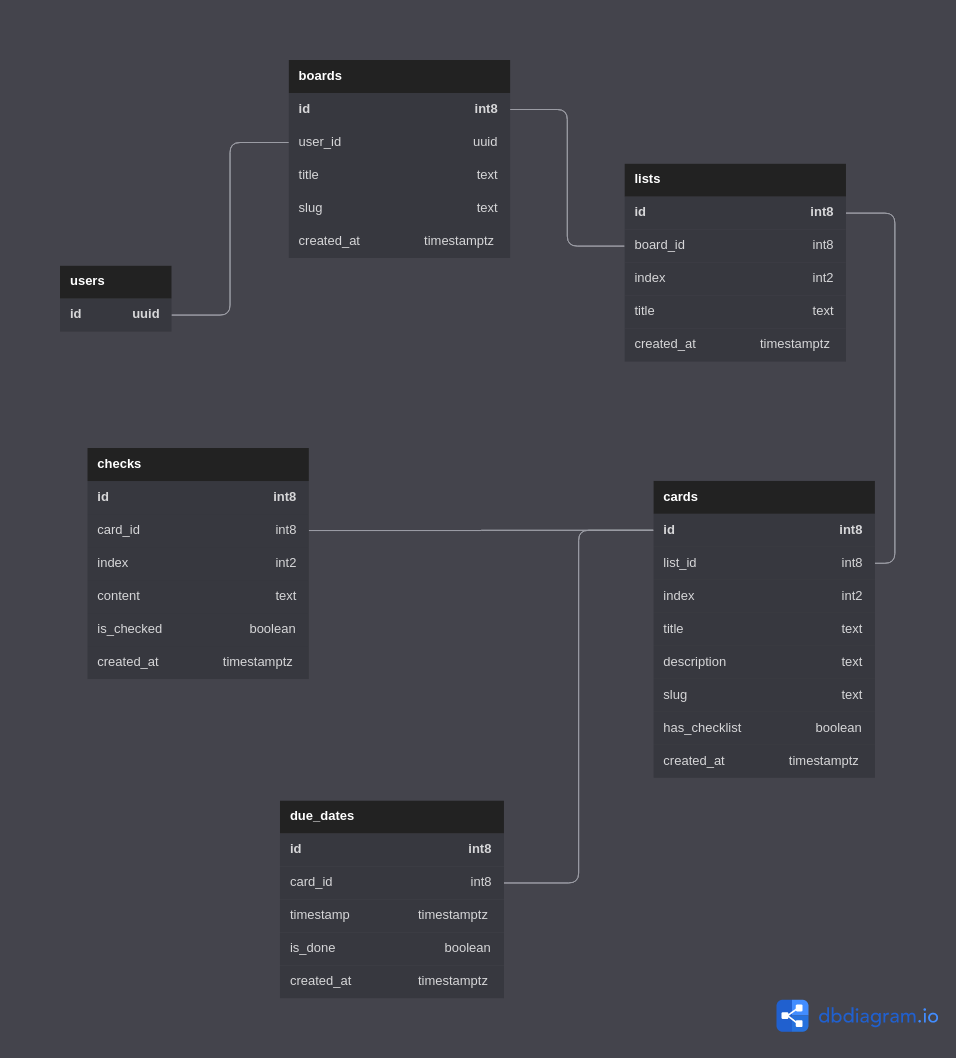
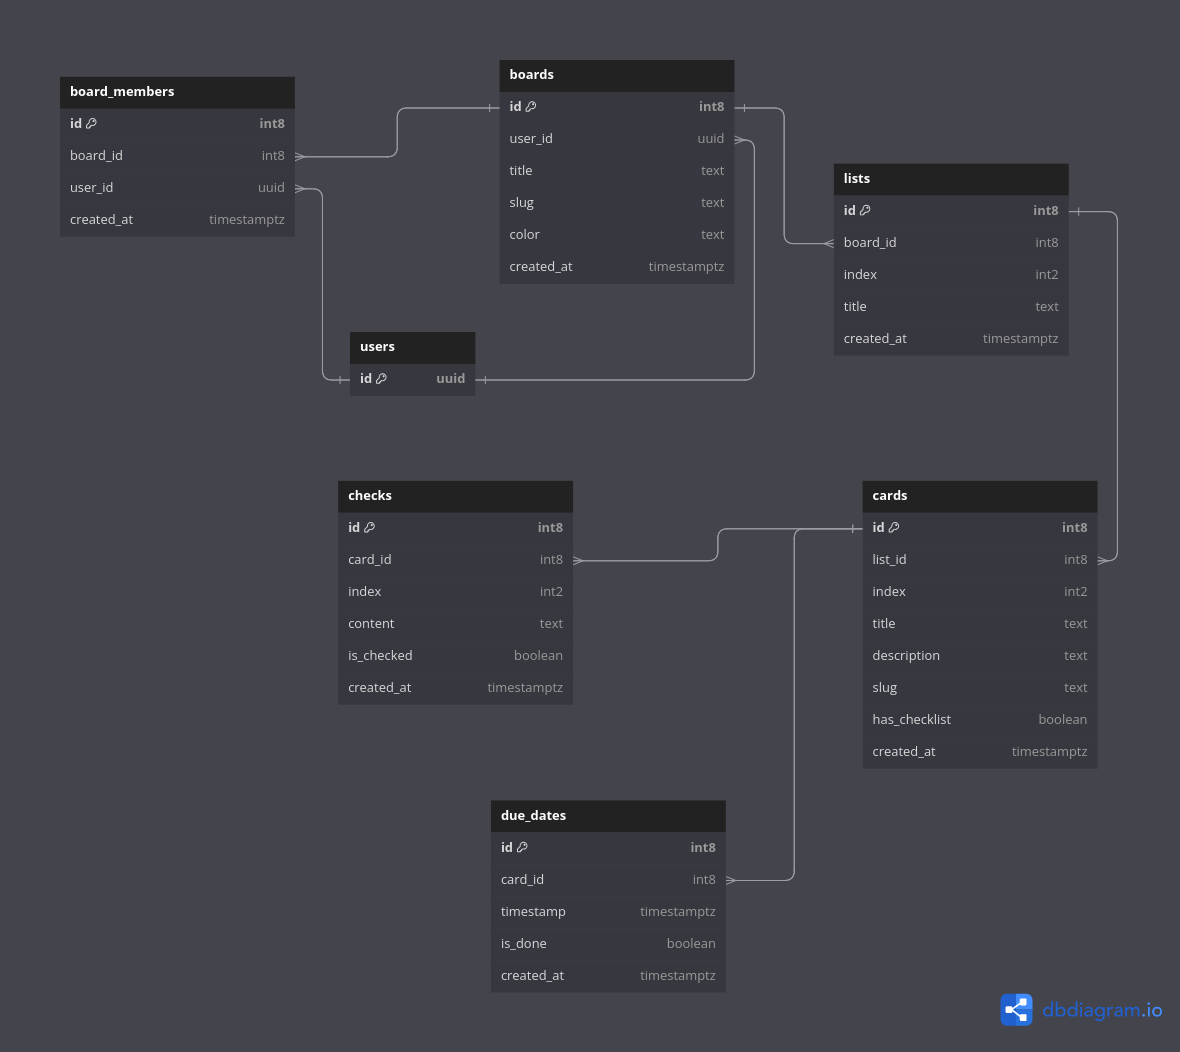
Update README

diff --git a/app/dashboard/boards/[slug]/components/ModalCardDetail.tsx b/app/dashboard/boards/[slug]/components/ModalCardDetail.tsx
@@ -107,9 +107,9 @@ const ModalCardDetail: React.FC<Props> = ({}) => {
       isOpen={isOpen}
       onRequestClose={close}
       overlayClassName="fixed inset-0 bg-black/50 overflow-y-auto"
-      className="border-0 p-0 absolute left-1/2 bottom-auto -translate-x-1/2 bg-transparent w-[95%] md:w-[90%] h-auto max-w-4xl"
+      className="outline-none border-0 p-0 absolute left-1/2 bottom-auto -translate-x-1/2 bg-transparent w-[95%] md:w-[90%] h-auto max-w-4xl"
     >
-      <div className="w-full rounded bg-slate-100 p-4 pb-10 min-h-[480px] my-4 flex flex-col md:my-16">
+      <div className="outline-none w-full rounded bg-slate-100 p-4 pb-10 min-h-[480px] my-4 flex flex-col md:my-16">
         {cardQuery.status === "success" && (
           <>
             {/* Header Side */}

diff --git a/README.md b/README.md
@@ -1,17 +1,31 @@
+![Logo](./docs/images/logo-with-text.svg)
+
 # Shoryuken
 
-![Thumbnail](./docs/images/thumbnail.png)
+Shoryuken is Trello-like web app created with NextJS and TailwindCSS.
 
-Shoryuken is Trello-like web app created with NextJS and TailwindCSS. It has some features like:
+![Board Detail](./docs/images/board-detail.png)
 
-- Authentication parts are like sign up, sign in, sign out, forgot password, and reset password.
+It has some features like:
+- Authentication.
+- Update user profile.
 - Create a board, open board detail, update board title, and delete a board.
-- Create a list, update list title, and delete a list.
-- Create a card, update card title and description, and delete a card.
+- Create a list, update list content, move a list and delete a list.
+- Create a card, update card content, move a card, and delete a card.
+
+![Card Detail](./docs/images/card-detail.png)
+
+## Prerequisites
+
+You need to install these first on your machine:
+- NodeJS v18.17.* as minimum
+- Yarn 1.22.21
+- Git
+- VSCode
 
 ## Installation
 
-You need to follow these steps to install this project on your machine:
+You need to follow these steps to run this project on your machine:
 
 1. Clone the repo from GitHub.
 
@@ -27,21 +41,35 @@ yarn
 
 3. Sign in and create a project in [Supabase](https://supabase.com/).
 
-4. Create database with this schema below in this [page](https://app.supabase.com/project/YOUR_PROJECT_ID/editor).
+4. Create database with this schema below in Supabase [here](https://app.supabase.com/project/YOUR_PROJECT_ID/editor).
 
 ![DB Schema](./docs/images/db-schema.png)
 
-5. Setup to enable Google Authentication in Supabase with this [guide](https://supabase.com/docs/guides/auth/auth-google).
+5. Create a view from auth.users in SQL Editor in Supabase [here](https://supabase.com/dashboard/project/YOUR_PROJECT_ID/sql/new).
 
-6. Create `.env.local` in root directory and fill it with supabase url and anon key you got from this [page](https://app.supabase.io/project/YOUR_PROJECT_ID/settings/api) in Supabase.
+```sql
+create or replace view public.users as select id, email, raw_user_meta_data from auth.users;
+revoke all on public.users from anon, authenticated;
+
+grant select on users to anon;
+grant select on users to authenticated;
+```
+
+6. Setup to enable Google Authentication in Supabase with this [guide](https://supabase.com/docs/guides/auth/auth-google).
+
+7. Create `.env.local` in root directory and fill it with supabase url and anon key you got from this [page](https://app.supabase.io/project/YOUR_PROJECT_ID/settings/api) in Supabase.
 
 ```bash
 NEXT_PUBLIC_SUPABASE_URL=
 NEXT_PUBLIC_SUPABASE_ANON_KEY=
 ```
 
-7. Run the project with `yarn`.
+8. Run the project with `yarn`.
 
 ```bash
 yarn dev
 ```
+
+## Motivation
+
+I create Shoryuken because I seek for a new frontend challenges and I think Trello is a good example. It has many interactivity features like drag and drop card, create a board, and etc.
